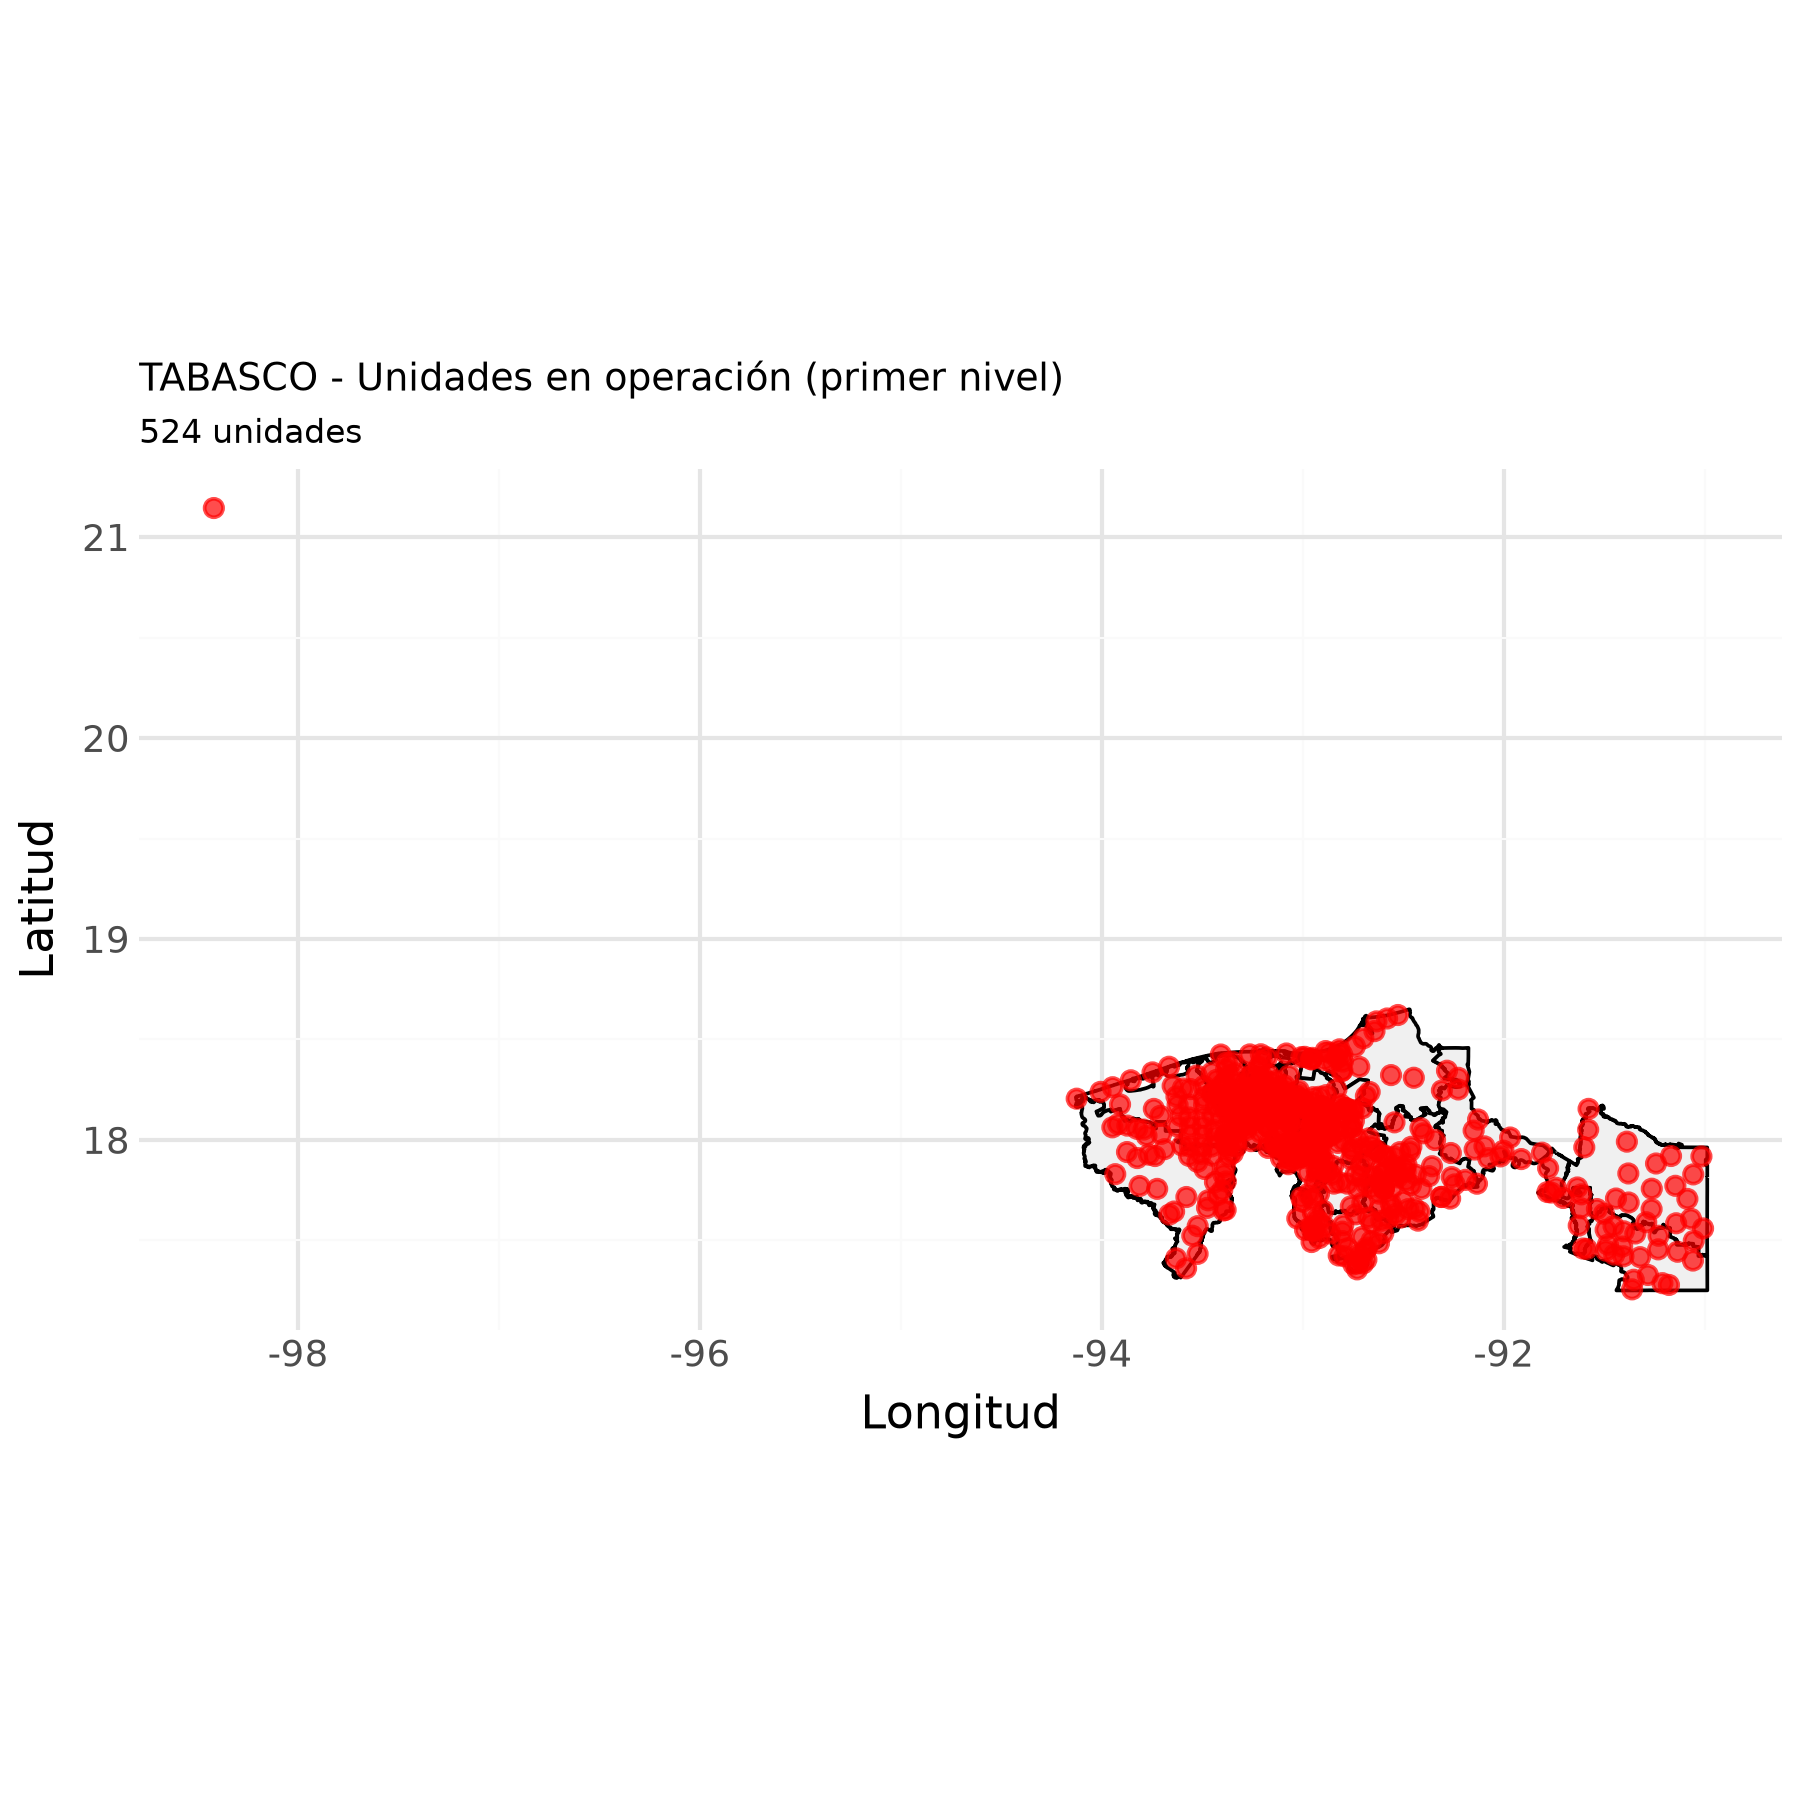
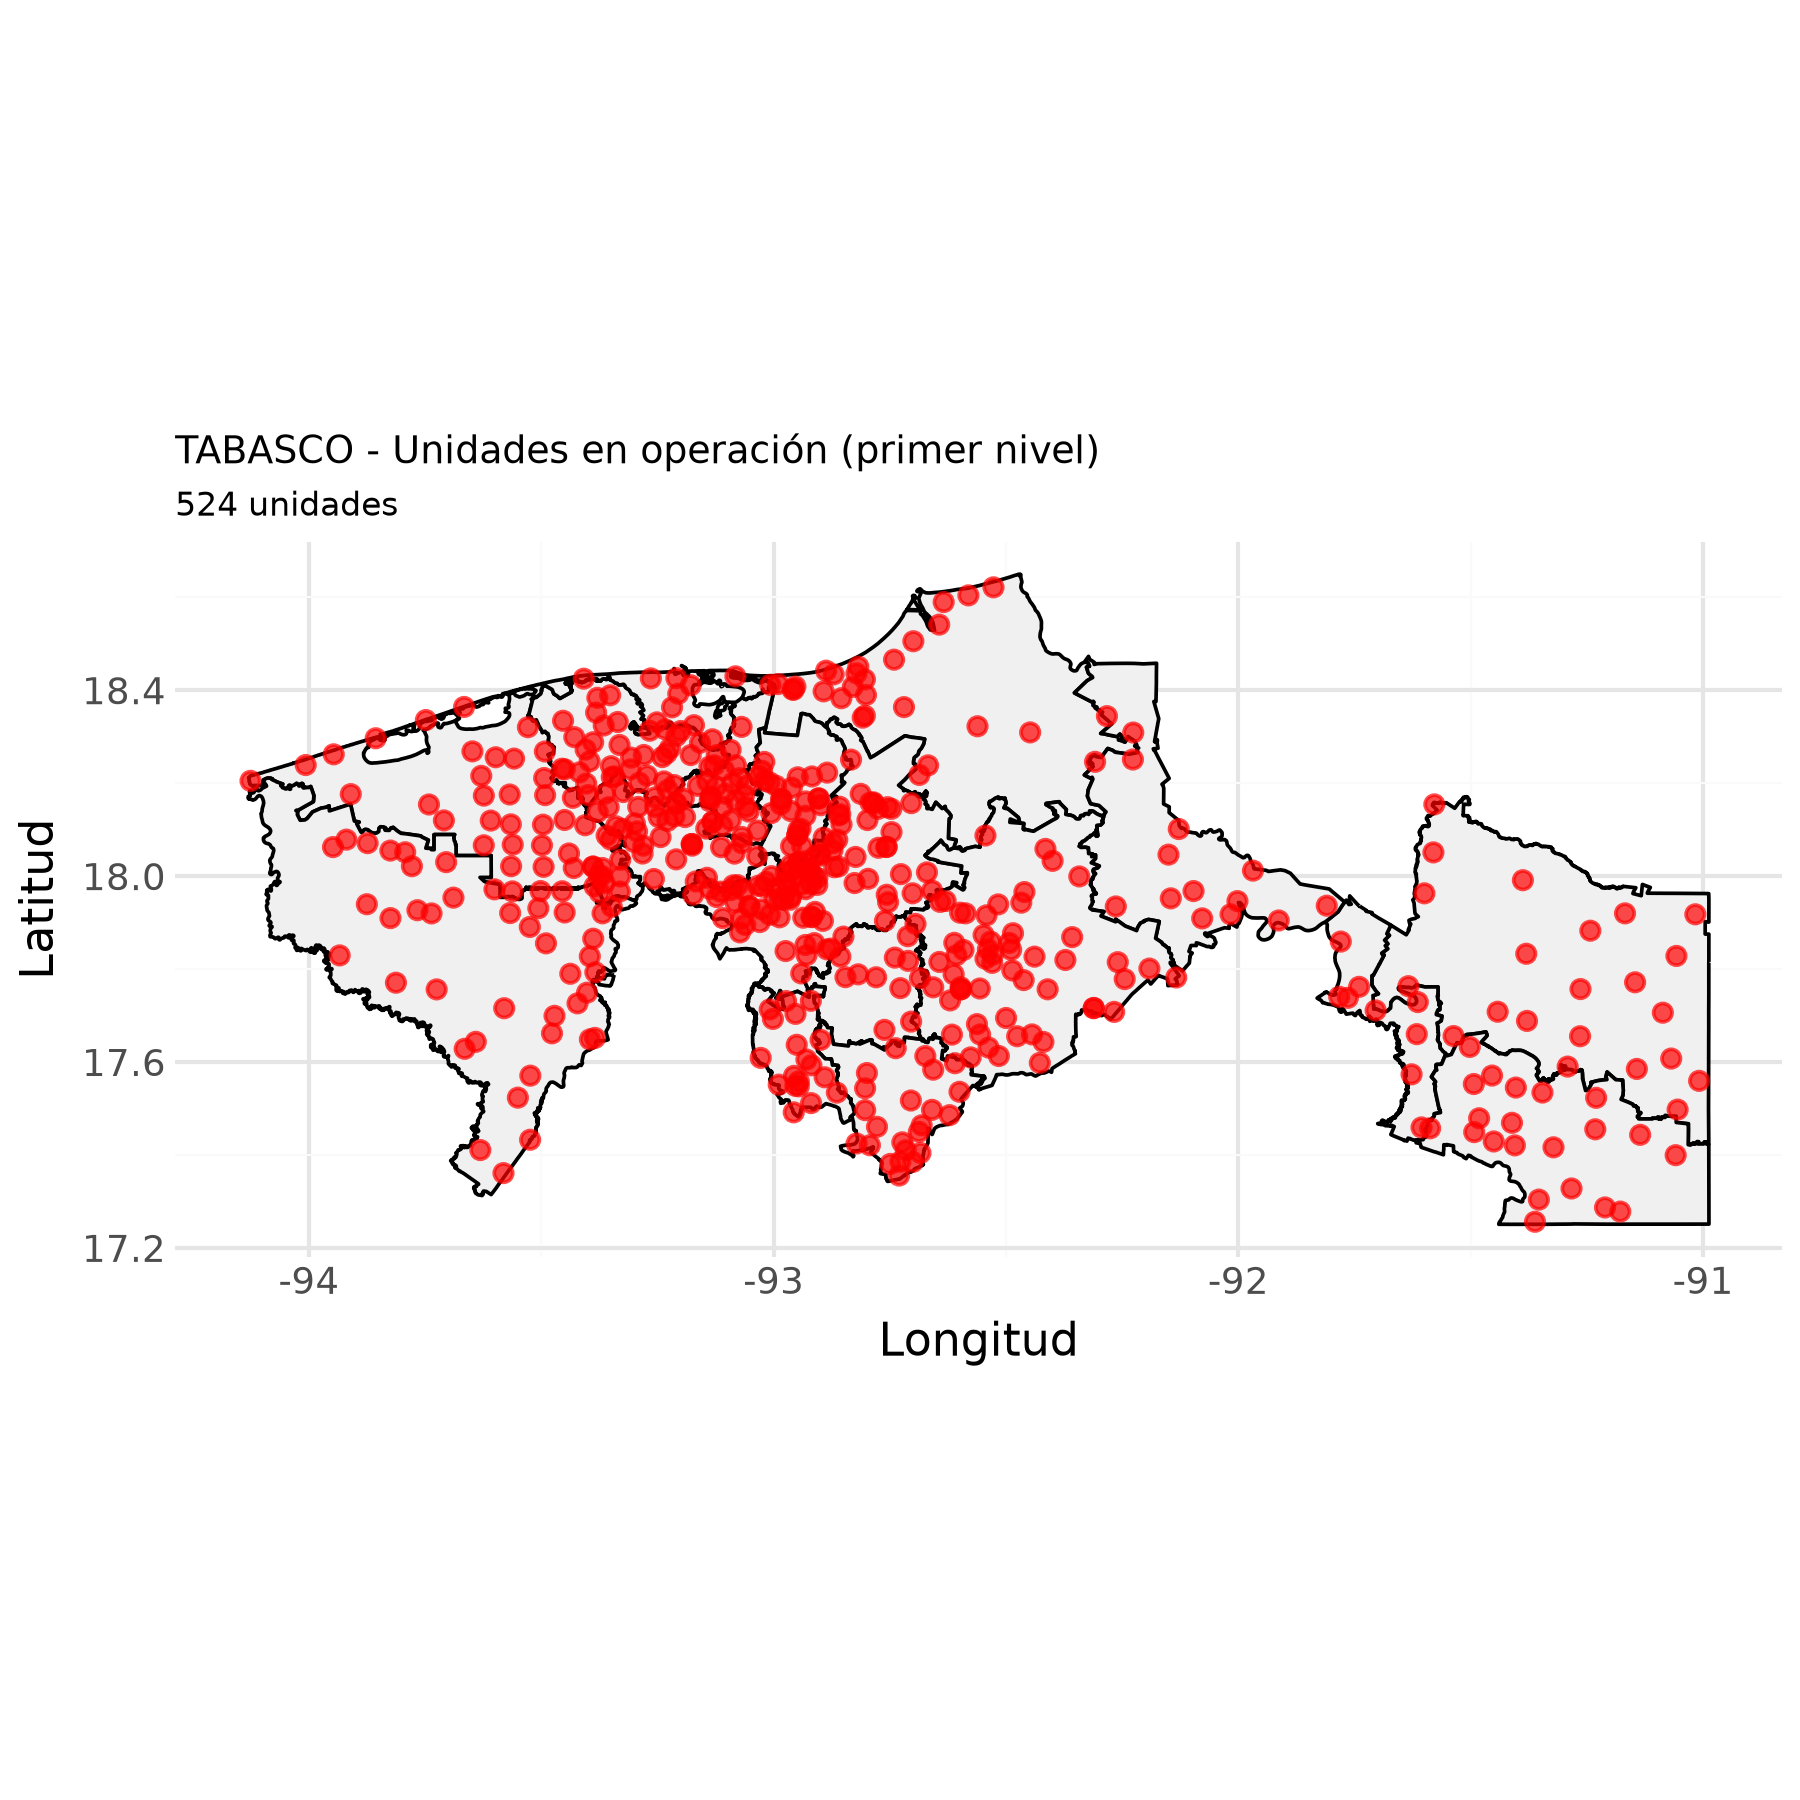
Se corrigen coordenadas

diff --git a/bigdata/primer_nivel/tabasco/TCIMB002652.html b/bigdata/primer_nivel/tabasco/TCIMB002652.html
@@ -372,8 +372,8 @@ M. González
                 <td
                 style="text-align: right;"><em>Coordenadas:</em></td>
                 <td><a
-                href="https://www.google.com/maps?q=21.144522,-98.4196">21.144522,
-                -98.4196</a></td>
+                href="https://www.google.com/maps?q=17.831228,-92.528091">17.831228,
+                -92.528091</a></td>
                 </tr>
                 <tr class="odd">
                 <td style="text-align: right;"><em>Domicilio:</em></td>
